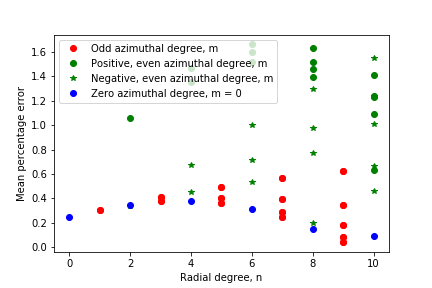
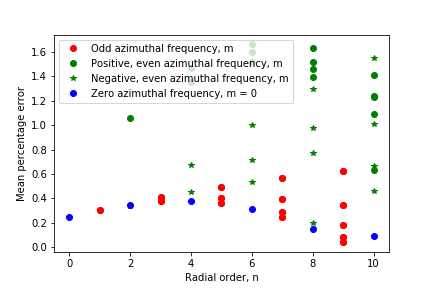
Added investigation into azimuthal frequencies for mixed wavefronts

diff --git a/discussion.tex b/discussion.tex
@@ -9,53 +9,53 @@
 Many the setup methods for Microscope-AOtools outlined in 
 Section~\ref{sec:set_up_methods} and the direct wavefront correction 
 outlined in Section~\ref{subsec:system_correction} rely on the Zernike 
-modes generated from the AOtools Python package and the method 
+modes generated from the \textit{AOtools} Python package and the method 
 described in Section~\ref{subsec:zernike_mode_measurment} to determine the 
 Zernike mode amplitudes present in a phase 
 wavefront\cite{townson2019aotools}. It is therefore worth investigating the 
 accuracy of this fitting for determining the amplitude of Zernike modes 
 present. In theory, measuring the Zernike mode amplitudes present in a 
-wavefront image created with known Zernike mode amplitudes using AOtools 
-should be trivial and yield the same Zernike mode amplitudes exactly. 
-Measuring the Zernike mode amplitude present is done using the method 
-described in Section~\ref{subsec:zernike_mode_measurment}, but in this case 
-the simulated wavefront image created using AOtools takes the place of the 
-measured phase wavefront, $\Phi(x,y)$. 
+wavefront image created with known Zernike mode amplitudes using 
+\textit{AOtools} should be trivial and yield the same Zernike mode amplitudes 
+exactly. Measuring the Zernike mode amplitude present is done using the 
+method described in Section~\ref{subsec:zernike_mode_measurment}, but in this 
+case the simulated wavefront image created using \textit{AOtools} takes the 
+place of the measured phase wavefront, $\Phi(x,y)$. 
 
 The simplest test of the accuracy of the Zernike mode amplitude fitting 
-follows thusly. AOtools is used to create a wavefront image with RMS 1 radian 
-(i.e. $\alpha_{j} = 1$) of a particular Zernike mode. The Zernike mode 
-amplitudes present in the wavefront image is then measured and the percentage 
-error between the measured and simulated Zernike mode amplitudes is recorded. 
-This process is repeated 50 times for all Zernike modes up to radial degree, 
-$n = 10$. Figure~\ref{fig:zernike_fitting_accuracy} shows the results of this 
-experiment on wavefront images of various sizes. In no case is the expected 
-Zernike mode amplitude returned exactly - there is always some degree of 
-error in the Zernike mode amplitude measurement. Zernike modes with an even 
-azimuthal degree appear to perform worse than Zernike modes with either an 
-odd or zero azimuthal degree. All non-zero azimuthal degree Zernike modes 
-display a trend of increasing percentage error with radial degree. The 
-magnitude of percentage error also decreases with simulated wavefront size. 
+follows thusly. \textit{AOtools} is used to create a wavefront image with RMS 
+1 radian (i.e. $\alpha_{j} = 1$) of a particular Zernike mode. The Zernike 
+mode amplitudes present in the wavefront image is then measured and the 
+percentage error between the measured and simulated Zernike mode amplitudes 
+is recorded. This process is repeated 50 times for all Zernike modes up to 
+radial order, $n = 10$. Figure~\ref{fig:zernike_fitting_accuracy} shows the 
+results of this experiment on wavefront images of various sizes. In no case 
+is the expected Zernike mode amplitude returned exactly - there is always 
+some degree of error in the Zernike mode amplitude measurement. Zernike modes 
+with an even azimuthal frequency appear to perform worse than Zernike modes 
+with either an odd or zero azimuthal frequency. All non-zero azimuthal 
+frequency Zernike modes display a trend of increasing percentage error with 
+radial order. The magnitude of percentage error also decreases with simulated 
+wavefront size. 
 
 Interestingly, there is often a clear split in percentage error between 
-Zernike modes with positive and negative even azimuthal degrees. This is most 
-visible in 
+Zernike modes with positive and negative even azimuthal frequencies. This is most visible in 
 Figure~\ref{fig:Zernike_fitting_percentage_error_one_mode_256_shape} but it 
-can be observed in some radial degrees in all the simulated wavefront sizes 
+can be observed in some radial orders in all the simulated wavefront sizes 
 shown in Figure~\ref{fig:zernike_fitting_accuracy}. The positive and negative 
-even azimuthal degrees correspond to `vertical' and `oblique' Zernike modes 
-respectively. This observed difference in performance between `vertical' and 
-`oblique' Zernike modes is due to a class of discretisation error where some 
-of the principle variation in the simulated wavefront shape falls between 
-pixels and is therefore not captured by the discrete representation of the 
-Zernike mode. Odd azimuthal degree Zernike modes do not exhibit this 
-splitting since positive and negative odd azimuthal degrees correspond to 
-`horizontal' and `vertical' Zernike modes respectively. Therefore, odd 
-azimuthal Zernike modes always suffer from this class of discretisation 
-error. For smaller simulated wavefront sizes, this split in the even 
-azimuthal degree Zernike modes is less visible at higher radial orders 
-because other, less geometrically determined, discretisation errors dominate 
-the overall percentage error measurements.
+even azimuthal frequencies correspond to `vertical' and `oblique' Zernike 
+modes respectively. This observed difference in performance between 
+`vertical' and `oblique' Zernike modes is due to a class of discretisation 
+error where some of the principle variation in the simulated wavefront shape 
+falls between pixels and is therefore not captured by the discrete 
+representation of the Zernike mode. Odd azimuthal frequency Zernike modes do 
+not exhibit this splitting since positive and negative odd azimuthal 
+frequencies correspond to `horizontal' and `vertical' Zernike modes 
+respectively. Therefore, odd azimuthal Zernike modes always suffer from this 
+class of discretisation error. For smaller simulated wavefront sizes, this 
+split in the even azimuthal frequency Zernike modes is less visible at higher 
+radial orders because other, less geometrically determined, discretisation 
+errors dominate the overall percentage error measurements.
 
 \begin{figure}[h]
 	\centering
@@ -97,58 +97,83 @@ the overall percentage error measurements.
 A wavefront may be dominated by a single Zernike mode, but they are almost 
 never composed entirely of one Zernike mode. 
 Figure~\ref{fig:Zernike_fitting_percentage_error_random_modes_repeat_resize_factor_1} shows the mean percentage error in the Zernike mode amplitude 
-measurement for 50 wavefront, $256\times256$ pixel size, generated with 
-random amplitudes for 69 Zernike modes. Clearly, having multiple modes 
-present simultaneously adds a degree of variance to the amplitude 
-measurement accuracy as well as an overall increase in the error magnitude.
+measurement for 50 wavefronts, $256\times256$ pixel size, generated with 
+random amplitudes for Zernike modes up to radial order, $n = 10$. Clearly, 
+having multiple modes present simultaneously adds a degree of variance to the 
+amplitude measurement accuracy as well as an overall increase in the error 
+magnitude.
 
-It is a time-consuming process for AOtools to generate wavefront images of 
-sizes greater than $256\times256$ pixels, typically about a $0.1-1$ seconds 
-per image depending on the overall size and number of Zernike modes 
+It is a time-consuming process for \textit{AOtools} to generate wavefront 
+images of sizes greater than $256\times256$ pixels, typically about a $0.1-1$ 
+seconds per image depending on the overall size and number of Zernike modes 
 simulated. In order to increase the speed of fitting, acquired wavefront 
 images are often resized. This too has an effect on Zernike mode accuracy 
 fitting since the resizing function bins multiple pixels together and takes 
 their mean, effectively smoothing the wavefront. 
 Figures~\ref{fig:Zernike_fitting_percentage_error_random_modes_repeat_resize_factor_2}-\ref{fig:Zernike_fitting_percentage_error_random_modes_repeat_resize_factor_8} show the same set of wavefronts used for the results in 
-Figure~\ref{fig:Zernike_fitting_percentage_error_random_modes_repeat_resize_factor_1}, except that the wavefronts were resized by varying factors prior to the Zernike modes amplitude measurements. Clearly, the resizing factor is inversely proportional to the overall Zernike mode fitting accuracy.
+Figure~\ref{fig:Zernike_fitting_percentage_error_random_modes_repeat_resize_factor_1}, except that the wavefronts were resized by varying factors prior to 
+the Zernike modes amplitude measurements. Clearly, the resizing factor is 
+inversely proportional to the overall Zernike mode fitting accuracy.
+
+The splitting in fitting error between positive and negative even azimuthal 
+frequencies (i.e. `vertical' and `oblique' Zernike modes respectively) is 
+once again observed, and it is observed for all resizing factors. However, a 
+splitting in fitting error is also observed in 
+Figure~\ref{fig:zernike_fitting_accuracy_resize} between positive and 
+negative odd azimuthal frequencies which was not present previously. Recall 
+positive and negative odd azimuthal frequencies correspond to `horizontal' 
+and `vertical' Zernike modes respectively. One might suspect that this is due 
+to the order in which the image axes are integrated along using 
+\textit{scipy}'s $trapz$ function. However, reversing the order in which the 
+axes are integrated along preserves this error splitting as presented in 
+Figure~\ref{fig:zernike_fitting_accuracy_resize}. Another reasonable 
+candidate for suspicion might be the function used to resize the wavefront. 
+If this were the source of this difference in fitting errors, it should not 
+occur in 
+Figure~\ref{fig:Zernike_fitting_percentage_error_random_modes_repeat_resize_factor_1} since the simulated wavefronts used in this dataset have not been 
+resized. This difference in fitting errors may be a result of some internal 
+preference within \textit{AOtools}' \textit{phaseFromZernikes()} function 
+used to generate the simulated wavefronts. Alternatively, this may reflect a 
+genuine preference in the Zernike mode amplitude measurements in complex 
+wavefronts for azimuthal frequencies less than 0.
 
 \begin{figure}[h]
 	\centering
 	\begin{subfigure}{0.48\textwidth}
 		\centering
-		\includegraphics[width=\linewidth]{images/Zernike_fitting_percentage_error_random_modes_repeat_resize_factor_1.png}
+		\includegraphics[width=\linewidth]{images/Zernike_fitting_percentage_error_random_modes_repeat_resize_factor_1_order_radial_azimuthal.png}
 		\caption{}
 		\label{fig:Zernike_fitting_percentage_error_random_modes_repeat_resize_factor_1}
 	\end{subfigure}
 	\begin{subfigure}{0.48\textwidth}
 		\centering
-		\includegraphics[width=\linewidth]{images/Zernike_fitting_percentage_error_random_modes_repeat_resize_factor_2.png}
+		\includegraphics[width=\linewidth]{images/Zernike_fitting_percentage_error_random_modes_repeat_resize_factor_2_order_radial_azimuthal.png}
 		\caption{}
 		\label{fig:Zernike_fitting_percentage_error_random_modes_repeat_resize_factor_2}
 	\end{subfigure}
 	
 	\begin{subfigure}{0.48\textwidth}
 		\centering
-		\includegraphics[width=\linewidth]{images/Zernike_fitting_percentage_error_random_modes_repeat_resize_factor_4.png}
+		\includegraphics[width=\linewidth]{images/Zernike_fitting_percentage_error_random_modes_repeat_resize_factor_4_order_radial_azimuthal.png}
 		\caption{}
 		\label{fig:Zernike_fitting_percentage_error_random_modes_repeat_resize_factor_4}
 	\end{subfigure}
 	\begin{subfigure}{0.48\textwidth}
 		\centering
-		\includegraphics[width=\linewidth]{images/Zernike_fitting_percentage_error_random_modes_repeat_resize_factor_8.png}
+		\includegraphics[width=\linewidth]{images/Zernike_fitting_percentage_error_random_modes_repeat_resize_factor_8_order_radial_azimuthal.png}
 		\caption{}
 		\label{fig:Zernike_fitting_percentage_error_random_modes_repeat_resize_factor_8}
 	\end{subfigure}
 	\caption[The effect of image resizing on Zernike mode fitting 	
 	accuracy]{The effect of image resizing on Zernike mode fitting accuracy. 
 		Original images of size $256\times256$ pixels was generated with 
-		random amplitudes for 69 Zernike modes. Each subfigure shows the 
-		percentage error in the Zernike mode measurement and the linear 
-		regression of all Zernike mode measurements for images resized by 
-		\textbf{(a)} $1$ i.e. no resizing \textbf{(b)} $\frac{1}{2}$ i.e 
-		$128\times128$ pixels \textbf{(c)} $\frac{1}{4}$ i.e $64\times64$ 
-		pixels \textbf{(d)} $\frac{1}{8}$ i.e. $32\times32$ pixels}
-	\label{fig:zernike_fitting_accuracy_resize}
+		random amplitudes for Zernike modes up to radial order, 
+		$n = 10$. Each subfigure shows the percentage error in the Zernike 
+		mode measurement and the linear regression of all Zernike mode 
+		measurements for images resized by \textbf{(a)} $1$ i.e. no resizing 
+		\textbf{(b)} $\frac{1}{2}$ i.e $128\times128$ pixels \textbf{(c)} 
+		$\frac{1}{4}$ i.e $64\times64$ pixels \textbf{(d)} $\frac{1}{8}$ i.e. 
+		$32\times32$ pixels} \label{fig:zernike_fitting_accuracy_resize}
 \end{figure}
 
 There accuracy of the Zernike mode amplitude fitting is a limiting factor in two key areas. Firstly, the accuracy of the Zernike mode fitting is one of the limiting factors to acquiring an ideal control matrix and, therefore, the ideal characterisation assay shown in Figure~\ref{fig:characterisation_assay_ideal}. Secondly, the accuracy of the Zernike mode fitting is one of the limiting factors to acquiring a perfectly flat wavefront through direct wavefront sensing.
